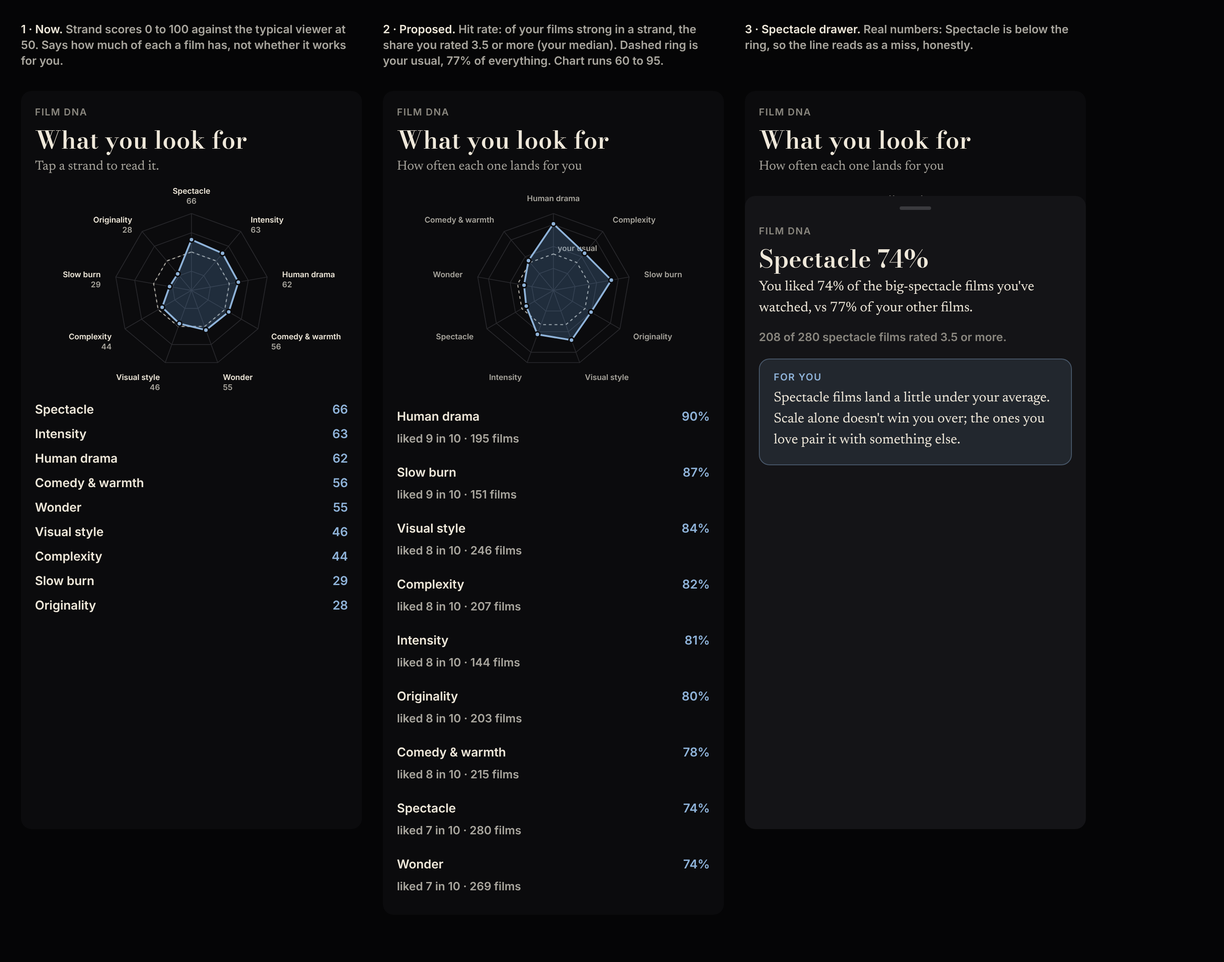
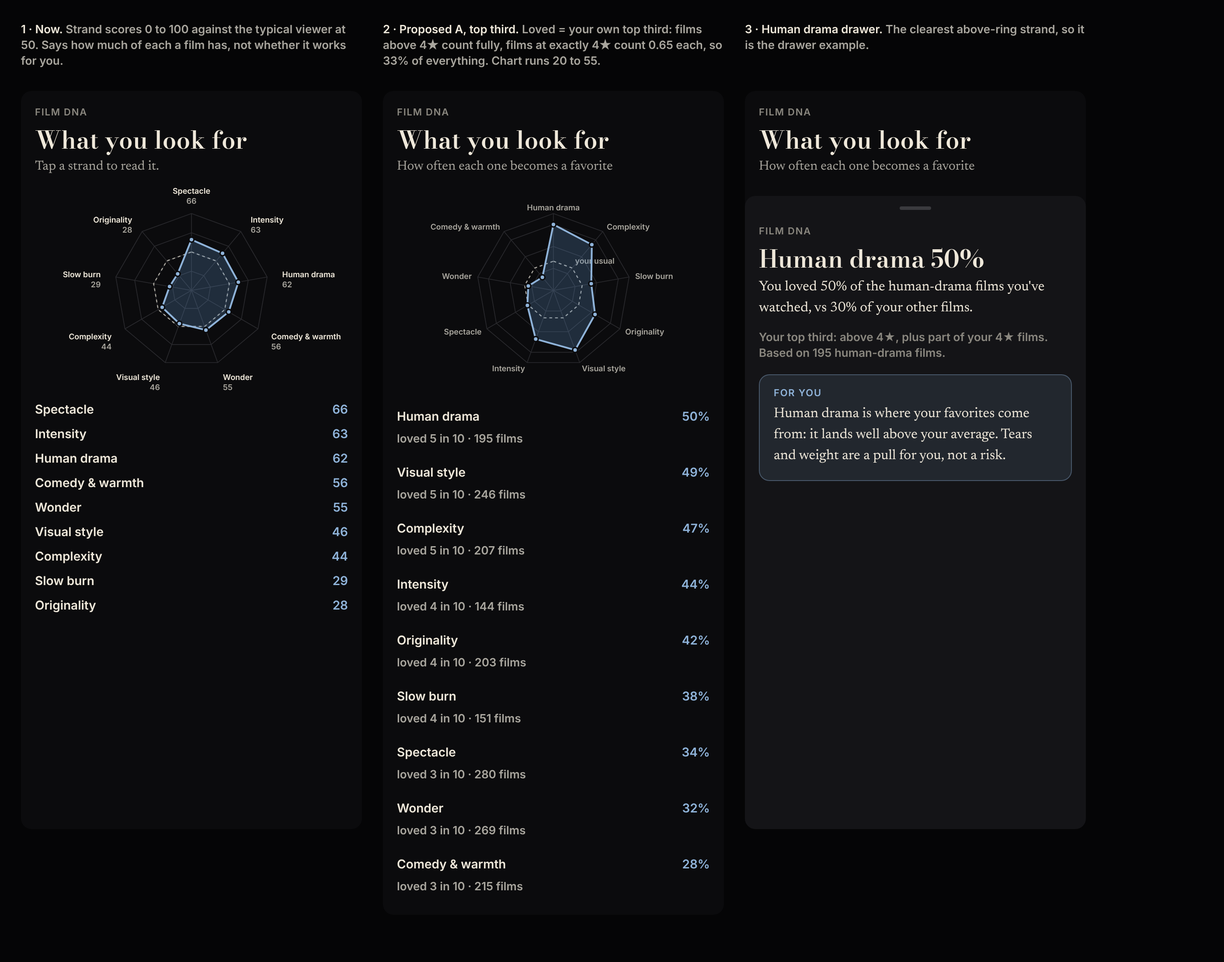
Mock b36: Film DNA hit rate, top-third and 4-star versions
Claude-Session: https://claude.ai/code/session_013WRDCFXH8nihP92apJAVW7

diff --git a/mockups/journeys/b36-dna-hitrate-third.html b/mockups/journeys/b36-dna-hitrate-third.html
@@ -1,0 +1,20 @@
+<html><head><style>
+@font-face{font-family:Bodoni;src:url(file:///home/user/montage/assets/fonts/BodoniModa-SemiBold.ttf)}@font-face{font-family:News;src:url(file:///home/user/montage/assets/fonts/Newsreader-Regular.woff)}@font-face{font-family:Inter;src:url(file:///home/user/montage/assets/fonts/Inter-SemiBold.woff);font-weight:600}
+body{margin:0;background:#050506;font-family:Inter,sans-serif;color:#efe8da;display:flex;gap:24px;padding:24px}
+.col{width:390px}.cap{font:600 13px/18px Inter;color:#a9a69e;margin:0 0 8px;height:72px}.cap b{color:#efe8da}
+.ph{width:390px;min-height:844px;background:#0b0b0d;border-radius:12px;overflow:hidden;padding:16px;box-sizing:border-box;position:relative}
+h1{font:600 28px/32px Bodoni;margin:8px 0 4px}h2{font:600 22px/28px Bodoni;margin:8px 0}
+.lab{font:600 11px/16px Inter;letter-spacing:.08em;text-transform:uppercase;color:#8a877f}
+.sub{font:400 15px/22px News;color:#a9a69e;margin:0 0 8px}
+.row{display:flex;justify-content:space-between;align-items:center;padding:4px 0;font:600 14px/20px Inter}
+.pc{color:#8fb3d9}.w{font:400 13px/18px Inter;color:#a9a69e;margin-top:2px}
+.bar{position:relative;height:6px;border-radius:999px;background:#2a2a2e}.bar .m{position:absolute;left:50%;top:-4px;height:14px;border-left:1px dashed #a9a69e}
+.bar b{position:absolute;top:-2px;width:10px;height:10px;border-radius:999px;background:#8fb3d9;border:2px solid #0b0b0d;box-sizing:border-box;transform:scale(1.2)}
+.ends{display:flex;justify-content:space-between;font:400 11px/16px Inter;color:#8a877f;margin-top:8px}
+.fy{margin-top:16px;padding:12px 16px 16px;border-radius:12px;background:rgba(143,179,217,.12);border:1px solid rgba(143,179,217,.35)}
+.fy .l{font:600 11px/16px Inter;letter-spacing:.08em;text-transform:uppercase;color:#8fb3d9}.fy p{margin:4px 0 0;font:400 16px/1.5 News}
+.dr{position:absolute;left:0;right:0;bottom:0;top:120px;background:#141417;border-radius:12px 12px 0 0;padding:24px 16px}.grab{width:36px;height:4px;border-radius:999px;background:#3a3a3e;margin:-12px auto 16px}
+.note{margin-top:12px;font:400 13px/18px Inter;color:#8a877f}
+.li{padding:8px 0}.li .t{font:600 15px/20px Inter}.li .w{font:400 13px/18px Inter;color:#a9a69e;margin-top:2px}.li .w b{color:#8fb3d9;font-weight:600}
+</style></head><body><div class="col"><p class="cap"><b>1 · Now.</b> Strand scores 0 to 100 against the typical viewer at 50. Says how much of each a film has, not whether it works for you.</p><div class="ph"><div class="lab">Film DNA</div><h1>What you look for</h1><p class="sub">Tap a strand to read it.</p><svg viewBox="-40 0 440 300" width="358"><polygon points="180.0,123.0 197.4,129.3 206.6,145.3 203.4,163.5 189.2,175.4 170.8,175.4 156.6,163.5 153.4,145.3 162.6,129.3" fill="none" stroke="#2a2a2e"/><polygon points="180.0,96.0 214.7,108.6 233.2,140.6 226.8,177.0 198.5,200.7 161.5,200.7 133.2,177.0 126.8,140.6 145.3,108.6" fill="none" stroke="#2a2a2e"/><polygon points="180.0,69.0 232.1,88.0 259.8,135.9 250.1,190.5 207.7,226.1 152.3,226.1 109.9,190.5 100.2,135.9 127.9,88.0" fill="none" stroke="#2a2a2e"/><polygon points="180.0,42.0 249.4,67.3 286.4,131.2 273.5,204.0 216.9,251.5 143.1,251.5 86.5,204.0 73.6,131.2 110.6,67.3" fill="none" stroke="#2a2a2e"/><line x1="180" y1="150" x2="180.0" y2="42.0" stroke="#2a2a2e"/><line x1="180" y1="150" x2="249.4" y2="67.3" stroke="#2a2a2e"/><line x1="180" y1="150" x2="286.4" y2="131.2" stroke="#2a2a2e"/><line x1="180" y1="150" x2="273.5" y2="204.0" stroke="#2a2a2e"/><line x1="180" y1="150" x2="216.9" y2="251.5" stroke="#2a2a2e"/><line x1="180" y1="150" x2="143.1" y2="251.5" stroke="#2a2a2e"/><line x1="180" y1="150" x2="86.5" y2="204.0" stroke="#2a2a2e"/><line x1="180" y1="150" x2="73.6" y2="131.2" stroke="#2a2a2e"/><line x1="180" y1="150" x2="110.6" y2="67.3" stroke="#2a2a2e"/><polygon points="180.0,96.0 214.7,108.6 233.2,140.6 226.8,177.0 198.5,200.7 161.5,200.7 133.2,177.0 126.8,140.6 145.3,108.6" fill="none" stroke="#a9a69e" stroke-width="1.5" stroke-dasharray="4 4"/><polygon points="180.0,78.7 223.7,97.9 245.9,138.4 232.4,180.2 200.3,205.8 163.0,196.7 138.8,173.8 149.2,144.6 160.6,126.8" fill="rgba(91,143,196,.26)" stroke="#8fb3d9" stroke-width="2.5" stroke-linejoin="round"/><circle cx="180.0" cy="78.7" r="3.5" fill="#8fb3d9" stroke="#0b0b0d" stroke-width="2"/><circle cx="223.7" cy="97.9" r="3.5" fill="#8fb3d9" stroke="#0b0b0d" stroke-width="2"/><circle cx="245.9" cy="138.4" r="3.5" fill="#8fb3d9" stroke="#0b0b0d" stroke-width="2"/><circle cx="232.4" cy="180.2" r="3.5" fill="#8fb3d9" stroke="#0b0b0d" stroke-width="2"/><circle cx="200.3" cy="205.8" r="3.5" fill="#8fb3d9" stroke="#0b0b0d" stroke-width="2"/><circle cx="163.0" cy="196.7" r="3.5" fill="#8fb3d9" stroke="#0b0b0d" stroke-width="2"/><circle cx="138.8" cy="173.8" r="3.5" fill="#8fb3d9" stroke="#0b0b0d" stroke-width="2"/><circle cx="149.2" cy="144.6" r="3.5" fill="#8fb3d9" stroke="#0b0b0d" stroke-width="2"/><circle cx="160.6" cy="126.8" r="3.5" fill="#8fb3d9" stroke="#0b0b0d" stroke-width="2"/><text x="180.0" y="14.4" text-anchor="middle" font-family="Inter" font-weight="600" font-size="11" fill="#efe8da">Spectacle</text><text x="180.0" y="28.4" text-anchor="middle" font-family="Inter" font-weight="600" font-size="11" fill="#a9a69e">66</text><text x="263.3" y="54.7" text-anchor="start" font-family="Inter" font-weight="600" font-size="11" fill="#efe8da">Intensity</text><text x="263.3" y="68.7" text-anchor="start" font-family="Inter" font-weight="600" font-size="11" fill="#a9a69e">63</text><text x="307.6" y="131.5" text-anchor="start" font-family="Inter" font-weight="600" font-size="11" fill="#efe8da">Human drama</text><text x="307.6" y="145.5" text-anchor="start" font-family="Inter" font-weight="600" font-size="11" fill="#a9a69e">62</text><text x="292.2" y="218.8" text-anchor="start" font-family="Inter" font-weight="600" font-size="11" fill="#efe8da">Comedy &amp; warmth</text><text x="292.2" y="232.8" text-anchor="start" font-family="Inter" font-weight="600" font-size="11" fill="#a9a69e">56</text><text x="224.3" y="275.8" text-anchor="start" font-family="Inter" font-weight="600" font-size="11" fill="#efe8da">Wonder</text><text x="224.3" y="289.8" text-anchor="start" font-family="Inter" font-weight="600" font-size="11" fill="#a9a69e">55</text><text x="135.7" y="275.8" text-anchor="end" font-family="Inter" font-weight="600" font-size="11" fill="#efe8da">Visual style</text><text x="135.7" y="289.8" text-anchor="end" font-family="Inter" font-weight="600" font-size="11" fill="#a9a69e">46</text><text x="67.8" y="218.8" text-anchor="end" font-family="Inter" font-weight="600" font-size="11" fill="#efe8da">Complexity</text><text x="67.8" y="232.8" text-anchor="end" font-family="Inter" font-weight="600" font-size="11" fill="#a9a69e">44</text><text x="52.4" y="131.5" text-anchor="end" font-family="Inter" font-weight="600" font-size="11" fill="#efe8da">Slow burn</text><text x="52.4" y="145.5" text-anchor="end" font-family="Inter" font-weight="600" font-size="11" fill="#a9a69e">29</text><text x="96.7" y="54.7" text-anchor="end" font-family="Inter" font-weight="600" font-size="11" fill="#efe8da">Originality</text><text x="96.7" y="68.7" text-anchor="end" font-family="Inter" font-weight="600" font-size="11" fill="#a9a69e">28</text></svg><div class="row"><span>Spectacle</span><span class="pc">66</span></div><div class="row"><span>Intensity</span><span class="pc">63</span></div><div class="row"><span>Human drama</span><span class="pc">62</span></div><div class="row"><span>Comedy & warmth</span><span class="pc">56</span></div><div class="row"><span>Wonder</span><span class="pc">55</span></div><div class="row"><span>Visual style</span><span class="pc">46</span></div><div class="row"><span>Complexity</span><span class="pc">44</span></div><div class="row"><span>Slow burn</span><span class="pc">29</span></div><div class="row"><span>Originality</span><span class="pc">28</span></div></div></div>
+<div class="col"><p class="cap"><b>2 · Proposed A, top third.</b> Loved = your own top third: films above 4★ count fully, films at exactly 4★ count 0.65 each, so 33% of everything. Chart runs 20 to 55.</p><div class="ph"><div class="lab">Film DNA</div><h1>What you look for</h1><p class="sub">How often each one becomes a favorite</p><svg viewBox="-40 0 440 300" width="358"><polygon points="180.0,119.1 199.8,126.4 210.4,144.6 206.7,165.4 190.6,179.0 169.4,179.0 153.3,165.4 149.6,144.6 160.2,126.4" fill="none" stroke="#2a2a2e"/><polygon points="180.0,88.3 219.7,102.7 240.8,139.3 233.4,180.9 201.1,208.0 158.9,208.0 126.6,180.9 119.2,139.3 140.3,102.7" fill="none" stroke="#2a2a2e"/><polygon points="180.0,57.4 239.5,79.1 271.2,133.9 260.2,196.3 211.7,237.0 148.3,237.0 99.8,196.3 88.8,133.9 120.5,79.1" fill="none" stroke="#2a2a2e"/><polygon points="180.0,42.0 249.4,67.3 286.4,131.2 273.5,204.0 216.9,251.5 143.1,251.5 86.5,204.0 73.6,131.2 110.6,67.3" fill="none" stroke="#2a2a2e"/><line x1="180" y1="150" x2="180.0" y2="42.0" stroke="#2a2a2e"/><text x="180.0" y="37.4" text-anchor="middle" font-family="Inter" font-weight="600" font-size="11" fill="#a9a69e">Human drama</text><line x1="180" y1="150" x2="249.4" y2="67.3" stroke="#2a2a2e"/><text x="255.0" y="64.6" text-anchor="start" font-family="Inter" font-weight="600" font-size="11" fill="#a9a69e">Complexity</text><line x1="180" y1="150" x2="286.4" y2="131.2" stroke="#2a2a2e"/><text x="294.9" y="133.7" text-anchor="start" font-family="Inter" font-weight="600" font-size="11" fill="#a9a69e">Slow burn</text><line x1="180" y1="150" x2="273.5" y2="204.0" stroke="#2a2a2e"/><text x="281.0" y="212.3" text-anchor="start" font-family="Inter" font-weight="600" font-size="11" fill="#a9a69e">Originality</text><line x1="180" y1="150" x2="216.9" y2="251.5" stroke="#2a2a2e"/><text x="219.9" y="263.6" text-anchor="start" font-family="Inter" font-weight="600" font-size="11" fill="#a9a69e">Visual style</text><line x1="180" y1="150" x2="143.1" y2="251.5" stroke="#2a2a2e"/><text x="140.1" y="263.6" text-anchor="end" font-family="Inter" font-weight="600" font-size="11" fill="#a9a69e">Intensity</text><line x1="180" y1="150" x2="86.5" y2="204.0" stroke="#2a2a2e"/><text x="79.0" y="212.3" text-anchor="end" font-family="Inter" font-weight="600" font-size="11" fill="#a9a69e">Spectacle</text><line x1="180" y1="150" x2="73.6" y2="131.2" stroke="#2a2a2e"/><text x="65.1" y="133.7" text-anchor="end" font-family="Inter" font-weight="600" font-size="11" fill="#a9a69e">Wonder</text><line x1="180" y1="150" x2="110.6" y2="67.3" stroke="#2a2a2e"/><text x="105.0" y="64.6" text-anchor="end" font-family="Inter" font-weight="600" font-size="11" fill="#a9a69e">Comedy & warmth</text><polygon points="180.0,109.0 206.4,118.6 220.4,142.9 215.5,170.5 194.0,188.6 166.0,188.6 144.5,170.5 139.6,142.9 153.6,118.6" fill="none" stroke="#a9a69e" stroke-width="1.5" stroke-dasharray="4 4"/><text x="210.4" y="112.6" font-family="Inter" font-size="11" fill="#a9a69e">your usual</text><polygon points="180.0,57.4 234.0,85.7 233.2,140.6 238.5,183.8 210.5,233.8 155.1,218.4 143.4,171.1 144.7,143.8 164.5,131.6" fill="rgba(91,143,196,.26)" stroke="#8fb3d9" stroke-width="2.5" stroke-linejoin="round"/><circle cx="180.0" cy="57.4" r="3.5" fill="#8fb3d9" stroke="#0b0b0d" stroke-width="2"/><circle cx="234.0" cy="85.7" r="3.5" fill="#8fb3d9" stroke="#0b0b0d" stroke-width="2"/><circle cx="233.2" cy="140.6" r="3.5" fill="#8fb3d9" stroke="#0b0b0d" stroke-width="2"/><circle cx="238.5" cy="183.8" r="3.5" fill="#8fb3d9" stroke="#0b0b0d" stroke-width="2"/><circle cx="210.5" cy="233.8" r="3.5" fill="#8fb3d9" stroke="#0b0b0d" stroke-width="2"/><circle cx="155.1" cy="218.4" r="3.5" fill="#8fb3d9" stroke="#0b0b0d" stroke-width="2"/><circle cx="143.4" cy="171.1" r="3.5" fill="#8fb3d9" stroke="#0b0b0d" stroke-width="2"/><circle cx="144.7" cy="143.8" r="3.5" fill="#8fb3d9" stroke="#0b0b0d" stroke-width="2"/><circle cx="164.5" cy="131.6" r="3.5" fill="#8fb3d9" stroke="#0b0b0d" stroke-width="2"/></svg><div class="li"><div class="row"><span>Human drama</span><span class="pc">50%</span></div><div class="w">loved 5 in 10 · 195 films</div></div><div class="li"><div class="row"><span>Visual style</span><span class="pc">49%</span></div><div class="w">loved 5 in 10 · 246 films</div></div><div class="li"><div class="row"><span>Complexity</span><span class="pc">47%</span></div><div class="w">loved 5 in 10 · 207 films</div></div><div class="li"><div class="row"><span>Intensity</span><span class="pc">44%</span></div><div class="w">loved 4 in 10 · 144 films</div></div><div class="li"><div class="row"><span>Originality</span><span class="pc">42%</span></div><div class="w">loved 4 in 10 · 203 films</div></div><div class="li"><div class="row"><span>Slow burn</span><span class="pc">38%</span></div><div class="w">loved 4 in 10 · 151 films</div></div><div class="li"><div class="row"><span>Spectacle</span><span class="pc">34%</span></div><div class="w">loved 3 in 10 · 280 films</div></div><div class="li"><div class="row"><span>Wonder</span><span class="pc">32%</span></div><div class="w">loved 3 in 10 · 269 films</div></div><div class="li"><div class="row"><span>Comedy & warmth</span><span class="pc">28%</span></div><div class="w">loved 3 in 10 · 215 films</div></div></div></div><div class="col"><p class="cap"><b>3 · Human drama drawer.</b> The clearest above-ring strand, so it is the drawer example.</p><div class="ph"><div class="lab">Film DNA</div><h1>What you look for</h1><p class="sub">How often each one becomes a favorite</p><svg viewBox="-40 0 440 300" width="358"><polygon points="180.0,119.1 199.8,126.4 210.4,144.6 206.7,165.4 190.6,179.0 169.4,179.0 153.3,165.4 149.6,144.6 160.2,126.4" fill="none" stroke="#2a2a2e"/><polygon points="180.0,88.3 219.7,102.7 240.8,139.3 233.4,180.9 201.1,208.0 158.9,208.0 126.6,180.9 119.2,139.3 140.3,102.7" fill="none" stroke="#2a2a2e"/><polygon points="180.0,57.4 239.5,79.1 271.2,133.9 260.2,196.3 211.7,237.0 148.3,237.0 99.8,196.3 88.8,133.9 120.5,79.1" fill="none" stroke="#2a2a2e"/><polygon points="180.0,42.0 249.4,67.3 286.4,131.2 273.5,204.0 216.9,251.5 143.1,251.5 86.5,204.0 73.6,131.2 110.6,67.3" fill="none" stroke="#2a2a2e"/><line x1="180" y1="150" x2="180.0" y2="42.0" stroke="#2a2a2e"/><text x="180.0" y="37.4" text-anchor="middle" font-family="Inter" font-weight="600" font-size="11" fill="#a9a69e">Human drama</text><line x1="180" y1="150" x2="249.4" y2="67.3" stroke="#2a2a2e"/><text x="255.0" y="64.6" text-anchor="start" font-family="Inter" font-weight="600" font-size="11" fill="#a9a69e">Complexity</text><line x1="180" y1="150" x2="286.4" y2="131.2" stroke="#2a2a2e"/><text x="294.9" y="133.7" text-anchor="start" font-family="Inter" font-weight="600" font-size="11" fill="#a9a69e">Slow burn</text><line x1="180" y1="150" x2="273.5" y2="204.0" stroke="#2a2a2e"/><text x="281.0" y="212.3" text-anchor="start" font-family="Inter" font-weight="600" font-size="11" fill="#a9a69e">Originality</text><line x1="180" y1="150" x2="216.9" y2="251.5" stroke="#2a2a2e"/><text x="219.9" y="263.6" text-anchor="start" font-family="Inter" font-weight="600" font-size="11" fill="#a9a69e">Visual style</text><line x1="180" y1="150" x2="143.1" y2="251.5" stroke="#2a2a2e"/><text x="140.1" y="263.6" text-anchor="end" font-family="Inter" font-weight="600" font-size="11" fill="#a9a69e">Intensity</text><line x1="180" y1="150" x2="86.5" y2="204.0" stroke="#2a2a2e"/><text x="79.0" y="212.3" text-anchor="end" font-family="Inter" font-weight="600" font-size="11" fill="#a9a69e">Spectacle</text><line x1="180" y1="150" x2="73.6" y2="131.2" stroke="#2a2a2e"/><text x="65.1" y="133.7" text-anchor="end" font-family="Inter" font-weight="600" font-size="11" fill="#a9a69e">Wonder</text><line x1="180" y1="150" x2="110.6" y2="67.3" stroke="#2a2a2e"/><text x="105.0" y="64.6" text-anchor="end" font-family="Inter" font-weight="600" font-size="11" fill="#a9a69e">Comedy & warmth</text><polygon points="180.0,109.0 206.4,118.6 220.4,142.9 215.5,170.5 194.0,188.6 166.0,188.6 144.5,170.5 139.6,142.9 153.6,118.6" fill="none" stroke="#a9a69e" stroke-width="1.5" stroke-dasharray="4 4"/><text x="210.4" y="112.6" font-family="Inter" font-size="11" fill="#a9a69e">your usual</text><polygon points="180.0,57.4 234.0,85.7 233.2,140.6 238.5,183.8 210.5,233.8 155.1,218.4 143.4,171.1 144.7,143.8 164.5,131.6" fill="rgba(91,143,196,.26)" stroke="#8fb3d9" stroke-width="2.5" stroke-linejoin="round"/><circle cx="180.0" cy="57.4" r="3.5" fill="#8fb3d9" stroke="#0b0b0d" stroke-width="2"/><circle cx="234.0" cy="85.7" r="3.5" fill="#8fb3d9" stroke="#0b0b0d" stroke-width="2"/><circle cx="233.2" cy="140.6" r="3.5" fill="#8fb3d9" stroke="#0b0b0d" stroke-width="2"/><circle cx="238.5" cy="183.8" r="3.5" fill="#8fb3d9" stroke="#0b0b0d" stroke-width="2"/><circle cx="210.5" cy="233.8" r="3.5" fill="#8fb3d9" stroke="#0b0b0d" stroke-width="2"/><circle cx="155.1" cy="218.4" r="3.5" fill="#8fb3d9" stroke="#0b0b0d" stroke-width="2"/><circle cx="143.4" cy="171.1" r="3.5" fill="#8fb3d9" stroke="#0b0b0d" stroke-width="2"/><circle cx="144.7" cy="143.8" r="3.5" fill="#8fb3d9" stroke="#0b0b0d" stroke-width="2"/><circle cx="164.5" cy="131.6" r="3.5" fill="#8fb3d9" stroke="#0b0b0d" stroke-width="2"/></svg><div class="dr"><div class="grab"></div><div class="lab">Film DNA</div><h1>Human drama 50%</h1><p class="sub" style="font-size:16px;line-height:24px;color:#efe8da">You loved 50% of the human-drama films you've watched, vs 30% of your other films.</p><div class="note">Your top third: above 4★, plus part of your 4★ films. Based on 195 human-drama films.</div><div class="fy"><div class="l">For you</div><p>Human drama is where your favorites come from: it lands well above your average. Tears and weight are a pull for you, not a risk.</p></div></div></div></div></body></html>

diff --git a/mockups/journeys/b36-dna-hitrate-4star.html b/mockups/journeys/b36-dna-hitrate-4star.html
@@ -1,0 +1,20 @@
+<html><head><style>
+@font-face{font-family:Bodoni;src:url(file:///home/user/montage/assets/fonts/BodoniModa-SemiBold.ttf)}@font-face{font-family:News;src:url(file:///home/user/montage/assets/fonts/Newsreader-Regular.woff)}@font-face{font-family:Inter;src:url(file:///home/user/montage/assets/fonts/Inter-SemiBold.woff);font-weight:600}
+body{margin:0;background:#050506;font-family:Inter,sans-serif;color:#efe8da;display:flex;gap:24px;padding:24px}
+.col{width:390px}.cap{font:600 13px/18px Inter;color:#a9a69e;margin:0 0 8px;height:72px}.cap b{color:#efe8da}
+.ph{width:390px;min-height:844px;background:#0b0b0d;border-radius:12px;overflow:hidden;padding:16px;box-sizing:border-box;position:relative}
+h1{font:600 28px/32px Bodoni;margin:8px 0 4px}h2{font:600 22px/28px Bodoni;margin:8px 0}
+.lab{font:600 11px/16px Inter;letter-spacing:.08em;text-transform:uppercase;color:#8a877f}
+.sub{font:400 15px/22px News;color:#a9a69e;margin:0 0 8px}
+.row{display:flex;justify-content:space-between;align-items:center;padding:4px 0;font:600 14px/20px Inter}
+.pc{color:#8fb3d9}.w{font:400 13px/18px Inter;color:#a9a69e;margin-top:2px}
+.bar{position:relative;height:6px;border-radius:999px;background:#2a2a2e}.bar .m{position:absolute;left:50%;top:-4px;height:14px;border-left:1px dashed #a9a69e}
+.bar b{position:absolute;top:-2px;width:10px;height:10px;border-radius:999px;background:#8fb3d9;border:2px solid #0b0b0d;box-sizing:border-box;transform:scale(1.2)}
+.ends{display:flex;justify-content:space-between;font:400 11px/16px Inter;color:#8a877f;margin-top:8px}
+.fy{margin-top:16px;padding:12px 16px 16px;border-radius:12px;background:rgba(143,179,217,.12);border:1px solid rgba(143,179,217,.35)}
+.fy .l{font:600 11px/16px Inter;letter-spacing:.08em;text-transform:uppercase;color:#8fb3d9}.fy p{margin:4px 0 0;font:400 16px/1.5 News}
+.dr{position:absolute;left:0;right:0;bottom:0;top:120px;background:#141417;border-radius:12px 12px 0 0;padding:24px 16px}.grab{width:36px;height:4px;border-radius:999px;background:#3a3a3e;margin:-12px auto 16px}
+.note{margin-top:12px;font:400 13px/18px Inter;color:#8a877f}
+.li{padding:8px 0}.li .t{font:600 15px/20px Inter}.li .w{font:400 13px/18px Inter;color:#a9a69e;margin-top:2px}.li .w b{color:#8fb3d9;font-weight:600}
+</style></head><body><div class="col"><p class="cap"><b>1 · Now.</b> Strand scores 0 to 100 against the typical viewer at 50. Says how much of each a film has, not whether it works for you.</p><div class="ph"><div class="lab">Film DNA</div><h1>What you look for</h1><p class="sub">Tap a strand to read it.</p><svg viewBox="-40 0 440 300" width="358"><polygon points="180.0,123.0 197.4,129.3 206.6,145.3 203.4,163.5 189.2,175.4 170.8,175.4 156.6,163.5 153.4,145.3 162.6,129.3" fill="none" stroke="#2a2a2e"/><polygon points="180.0,96.0 214.7,108.6 233.2,140.6 226.8,177.0 198.5,200.7 161.5,200.7 133.2,177.0 126.8,140.6 145.3,108.6" fill="none" stroke="#2a2a2e"/><polygon points="180.0,69.0 232.1,88.0 259.8,135.9 250.1,190.5 207.7,226.1 152.3,226.1 109.9,190.5 100.2,135.9 127.9,88.0" fill="none" stroke="#2a2a2e"/><polygon points="180.0,42.0 249.4,67.3 286.4,131.2 273.5,204.0 216.9,251.5 143.1,251.5 86.5,204.0 73.6,131.2 110.6,67.3" fill="none" stroke="#2a2a2e"/><line x1="180" y1="150" x2="180.0" y2="42.0" stroke="#2a2a2e"/><line x1="180" y1="150" x2="249.4" y2="67.3" stroke="#2a2a2e"/><line x1="180" y1="150" x2="286.4" y2="131.2" stroke="#2a2a2e"/><line x1="180" y1="150" x2="273.5" y2="204.0" stroke="#2a2a2e"/><line x1="180" y1="150" x2="216.9" y2="251.5" stroke="#2a2a2e"/><line x1="180" y1="150" x2="143.1" y2="251.5" stroke="#2a2a2e"/><line x1="180" y1="150" x2="86.5" y2="204.0" stroke="#2a2a2e"/><line x1="180" y1="150" x2="73.6" y2="131.2" stroke="#2a2a2e"/><line x1="180" y1="150" x2="110.6" y2="67.3" stroke="#2a2a2e"/><polygon points="180.0,96.0 214.7,108.6 233.2,140.6 226.8,177.0 198.5,200.7 161.5,200.7 133.2,177.0 126.8,140.6 145.3,108.6" fill="none" stroke="#a9a69e" stroke-width="1.5" stroke-dasharray="4 4"/><polygon points="180.0,78.7 223.7,97.9 245.9,138.4 232.4,180.2 200.3,205.8 163.0,196.7 138.8,173.8 149.2,144.6 160.6,126.8" fill="rgba(91,143,196,.26)" stroke="#8fb3d9" stroke-width="2.5" stroke-linejoin="round"/><circle cx="180.0" cy="78.7" r="3.5" fill="#8fb3d9" stroke="#0b0b0d" stroke-width="2"/><circle cx="223.7" cy="97.9" r="3.5" fill="#8fb3d9" stroke="#0b0b0d" stroke-width="2"/><circle cx="245.9" cy="138.4" r="3.5" fill="#8fb3d9" stroke="#0b0b0d" stroke-width="2"/><circle cx="232.4" cy="180.2" r="3.5" fill="#8fb3d9" stroke="#0b0b0d" stroke-width="2"/><circle cx="200.3" cy="205.8" r="3.5" fill="#8fb3d9" stroke="#0b0b0d" stroke-width="2"/><circle cx="163.0" cy="196.7" r="3.5" fill="#8fb3d9" stroke="#0b0b0d" stroke-width="2"/><circle cx="138.8" cy="173.8" r="3.5" fill="#8fb3d9" stroke="#0b0b0d" stroke-width="2"/><circle cx="149.2" cy="144.6" r="3.5" fill="#8fb3d9" stroke="#0b0b0d" stroke-width="2"/><circle cx="160.6" cy="126.8" r="3.5" fill="#8fb3d9" stroke="#0b0b0d" stroke-width="2"/><text x="180.0" y="14.4" text-anchor="middle" font-family="Inter" font-weight="600" font-size="11" fill="#efe8da">Spectacle</text><text x="180.0" y="28.4" text-anchor="middle" font-family="Inter" font-weight="600" font-size="11" fill="#a9a69e">66</text><text x="263.3" y="54.7" text-anchor="start" font-family="Inter" font-weight="600" font-size="11" fill="#efe8da">Intensity</text><text x="263.3" y="68.7" text-anchor="start" font-family="Inter" font-weight="600" font-size="11" fill="#a9a69e">63</text><text x="307.6" y="131.5" text-anchor="start" font-family="Inter" font-weight="600" font-size="11" fill="#efe8da">Human drama</text><text x="307.6" y="145.5" text-anchor="start" font-family="Inter" font-weight="600" font-size="11" fill="#a9a69e">62</text><text x="292.2" y="218.8" text-anchor="start" font-family="Inter" font-weight="600" font-size="11" fill="#efe8da">Comedy &amp; warmth</text><text x="292.2" y="232.8" text-anchor="start" font-family="Inter" font-weight="600" font-size="11" fill="#a9a69e">56</text><text x="224.3" y="275.8" text-anchor="start" font-family="Inter" font-weight="600" font-size="11" fill="#efe8da">Wonder</text><text x="224.3" y="289.8" text-anchor="start" font-family="Inter" font-weight="600" font-size="11" fill="#a9a69e">55</text><text x="135.7" y="275.8" text-anchor="end" font-family="Inter" font-weight="600" font-size="11" fill="#efe8da">Visual style</text><text x="135.7" y="289.8" text-anchor="end" font-family="Inter" font-weight="600" font-size="11" fill="#a9a69e">46</text><text x="67.8" y="218.8" text-anchor="end" font-family="Inter" font-weight="600" font-size="11" fill="#efe8da">Complexity</text><text x="67.8" y="232.8" text-anchor="end" font-family="Inter" font-weight="600" font-size="11" fill="#a9a69e">44</text><text x="52.4" y="131.5" text-anchor="end" font-family="Inter" font-weight="600" font-size="11" fill="#efe8da">Slow burn</text><text x="52.4" y="145.5" text-anchor="end" font-family="Inter" font-weight="600" font-size="11" fill="#a9a69e">29</text><text x="96.7" y="54.7" text-anchor="end" font-family="Inter" font-weight="600" font-size="11" fill="#efe8da">Originality</text><text x="96.7" y="68.7" text-anchor="end" font-family="Inter" font-weight="600" font-size="11" fill="#a9a69e">28</text></svg><div class="row"><span>Spectacle</span><span class="pc">66</span></div><div class="row"><span>Intensity</span><span class="pc">63</span></div><div class="row"><span>Human drama</span><span class="pc">62</span></div><div class="row"><span>Comedy & warmth</span><span class="pc">56</span></div><div class="row"><span>Wonder</span><span class="pc">55</span></div><div class="row"><span>Visual style</span><span class="pc">46</span></div><div class="row"><span>Complexity</span><span class="pc">44</span></div><div class="row"><span>Slow burn</span><span class="pc">29</span></div><div class="row"><span>Originality</span><span class="pc">28</span></div></div></div>
+<div class="col"><p class="cap"><b>2 · Proposed B, 4★ or more.</b> Loved = rated 4★ or higher. That is 44% of everything you rate (the dashed ring). Chart runs 30 to 70.</p><div class="ph"><div class="lab">Film DNA</div><h1>What you look for</h1><p class="sub">How often each one becomes a favorite</p><svg viewBox="-40 0 440 300" width="358"><polygon points="180.0,123.0 197.4,129.3 206.6,145.3 203.4,163.5 189.2,175.4 170.8,175.4 156.6,163.5 153.4,145.3 162.6,129.3" fill="none" stroke="#2a2a2e"/><polygon points="180.0,96.0 214.7,108.6 233.2,140.6 226.8,177.0 198.5,200.7 161.5,200.7 133.2,177.0 126.8,140.6 145.3,108.6" fill="none" stroke="#2a2a2e"/><polygon points="180.0,69.0 232.1,88.0 259.8,135.9 250.1,190.5 207.7,226.1 152.3,226.1 109.9,190.5 100.2,135.9 127.9,88.0" fill="none" stroke="#2a2a2e"/><polygon points="180.0,42.0 249.4,67.3 286.4,131.2 273.5,204.0 216.9,251.5 143.1,251.5 86.5,204.0 73.6,131.2 110.6,67.3" fill="none" stroke="#2a2a2e"/><line x1="180" y1="150" x2="180.0" y2="42.0" stroke="#2a2a2e"/><text x="180.0" y="37.4" text-anchor="middle" font-family="Inter" font-weight="600" font-size="11" fill="#a9a69e">Human drama</text><line x1="180" y1="150" x2="249.4" y2="67.3" stroke="#2a2a2e"/><text x="255.0" y="64.6" text-anchor="start" font-family="Inter" font-weight="600" font-size="11" fill="#a9a69e">Complexity</text><line x1="180" y1="150" x2="286.4" y2="131.2" stroke="#2a2a2e"/><text x="294.9" y="133.7" text-anchor="start" font-family="Inter" font-weight="600" font-size="11" fill="#a9a69e">Slow burn</text><line x1="180" y1="150" x2="273.5" y2="204.0" stroke="#2a2a2e"/><text x="281.0" y="212.3" text-anchor="start" font-family="Inter" font-weight="600" font-size="11" fill="#a9a69e">Originality</text><line x1="180" y1="150" x2="216.9" y2="251.5" stroke="#2a2a2e"/><text x="219.9" y="263.6" text-anchor="start" font-family="Inter" font-weight="600" font-size="11" fill="#a9a69e">Visual style</text><line x1="180" y1="150" x2="143.1" y2="251.5" stroke="#2a2a2e"/><text x="140.1" y="263.6" text-anchor="end" font-family="Inter" font-weight="600" font-size="11" fill="#a9a69e">Intensity</text><line x1="180" y1="150" x2="86.5" y2="204.0" stroke="#2a2a2e"/><text x="79.0" y="212.3" text-anchor="end" font-family="Inter" font-weight="600" font-size="11" fill="#a9a69e">Spectacle</text><line x1="180" y1="150" x2="73.6" y2="131.2" stroke="#2a2a2e"/><text x="65.1" y="133.7" text-anchor="end" font-family="Inter" font-weight="600" font-size="11" fill="#a9a69e">Wonder</text><line x1="180" y1="150" x2="110.6" y2="67.3" stroke="#2a2a2e"/><text x="105.0" y="64.6" text-anchor="end" font-family="Inter" font-weight="600" font-size="11" fill="#a9a69e">Comedy & warmth</text><polygon points="180.0,112.5 204.1,121.3 217.0,143.5 212.5,168.8 192.8,185.3 167.2,185.3 147.5,168.8 143.0,143.5 155.9,121.3" fill="none" stroke="#a9a69e" stroke-width="1.5" stroke-dasharray="4 4"/><text x="208.1" y="115.3" font-family="Inter" font-size="11" fill="#a9a69e">your usual</text><polygon points="180.0,62.0 232.8,87.1 234.0,140.5 235.4,182.0 208.6,228.7 157.0,213.2 149.1,167.8 153.1,145.3 166.6,134.1" fill="rgba(91,143,196,.26)" stroke="#8fb3d9" stroke-width="2.5" stroke-linejoin="round"/><circle cx="180.0" cy="62.0" r="3.5" fill="#8fb3d9" stroke="#0b0b0d" stroke-width="2"/><circle cx="232.8" cy="87.1" r="3.5" fill="#8fb3d9" stroke="#0b0b0d" stroke-width="2"/><circle cx="234.0" cy="140.5" r="3.5" fill="#8fb3d9" stroke="#0b0b0d" stroke-width="2"/><circle cx="235.4" cy="182.0" r="3.5" fill="#8fb3d9" stroke="#0b0b0d" stroke-width="2"/><circle cx="208.6" cy="228.7" r="3.5" fill="#8fb3d9" stroke="#0b0b0d" stroke-width="2"/><circle cx="157.0" cy="213.2" r="3.5" fill="#8fb3d9" stroke="#0b0b0d" stroke-width="2"/><circle cx="149.1" cy="167.8" r="3.5" fill="#8fb3d9" stroke="#0b0b0d" stroke-width="2"/><circle cx="153.1" cy="145.3" r="3.5" fill="#8fb3d9" stroke="#0b0b0d" stroke-width="2"/><circle cx="166.6" cy="134.1" r="3.5" fill="#8fb3d9" stroke="#0b0b0d" stroke-width="2"/></svg><div class="li"><div class="row"><span>Human drama</span><span class="pc">63%</span></div><div class="w">loved 6 in 10 · 195 films</div></div><div class="li"><div class="row"><span>Visual style</span><span class="pc">61%</span></div><div class="w">loved 6 in 10 · 246 films</div></div><div class="li"><div class="row"><span>Complexity</span><span class="pc">60%</span></div><div class="w">loved 6 in 10 · 207 films</div></div><div class="li"><div class="row"><span>Intensity</span><span class="pc">55%</span></div><div class="w">loved 5 in 10 · 144 films</div></div><div class="li"><div class="row"><span>Originality</span><span class="pc">54%</span></div><div class="w">loved 5 in 10 · 203 films</div></div><div class="li"><div class="row"><span>Slow burn</span><span class="pc">50%</span></div><div class="w">loved 5 in 10 · 151 films</div></div><div class="li"><div class="row"><span>Spectacle</span><span class="pc">43%</span></div><div class="w">loved 4 in 10 · 280 films</div></div><div class="li"><div class="row"><span>Wonder</span><span class="pc">40%</span></div><div class="w">loved 4 in 10 · 269 films</div></div><div class="li"><div class="row"><span>Comedy & warmth</span><span class="pc">38%</span></div><div class="w">loved 4 in 10 · 215 films</div></div></div></div><div class="col"><p class="cap"><b>3 · Human drama drawer.</b> The clearest above-ring strand, so it is the drawer example.</p><div class="ph"><div class="lab">Film DNA</div><h1>What you look for</h1><p class="sub">How often each one becomes a favorite</p><svg viewBox="-40 0 440 300" width="358"><polygon points="180.0,123.0 197.4,129.3 206.6,145.3 203.4,163.5 189.2,175.4 170.8,175.4 156.6,163.5 153.4,145.3 162.6,129.3" fill="none" stroke="#2a2a2e"/><polygon points="180.0,96.0 214.7,108.6 233.2,140.6 226.8,177.0 198.5,200.7 161.5,200.7 133.2,177.0 126.8,140.6 145.3,108.6" fill="none" stroke="#2a2a2e"/><polygon points="180.0,69.0 232.1,88.0 259.8,135.9 250.1,190.5 207.7,226.1 152.3,226.1 109.9,190.5 100.2,135.9 127.9,88.0" fill="none" stroke="#2a2a2e"/><polygon points="180.0,42.0 249.4,67.3 286.4,131.2 273.5,204.0 216.9,251.5 143.1,251.5 86.5,204.0 73.6,131.2 110.6,67.3" fill="none" stroke="#2a2a2e"/><line x1="180" y1="150" x2="180.0" y2="42.0" stroke="#2a2a2e"/><text x="180.0" y="37.4" text-anchor="middle" font-family="Inter" font-weight="600" font-size="11" fill="#a9a69e">Human drama</text><line x1="180" y1="150" x2="249.4" y2="67.3" stroke="#2a2a2e"/><text x="255.0" y="64.6" text-anchor="start" font-family="Inter" font-weight="600" font-size="11" fill="#a9a69e">Complexity</text><line x1="180" y1="150" x2="286.4" y2="131.2" stroke="#2a2a2e"/><text x="294.9" y="133.7" text-anchor="start" font-family="Inter" font-weight="600" font-size="11" fill="#a9a69e">Slow burn</text><line x1="180" y1="150" x2="273.5" y2="204.0" stroke="#2a2a2e"/><text x="281.0" y="212.3" text-anchor="start" font-family="Inter" font-weight="600" font-size="11" fill="#a9a69e">Originality</text><line x1="180" y1="150" x2="216.9" y2="251.5" stroke="#2a2a2e"/><text x="219.9" y="263.6" text-anchor="start" font-family="Inter" font-weight="600" font-size="11" fill="#a9a69e">Visual style</text><line x1="180" y1="150" x2="143.1" y2="251.5" stroke="#2a2a2e"/><text x="140.1" y="263.6" text-anchor="end" font-family="Inter" font-weight="600" font-size="11" fill="#a9a69e">Intensity</text><line x1="180" y1="150" x2="86.5" y2="204.0" stroke="#2a2a2e"/><text x="79.0" y="212.3" text-anchor="end" font-family="Inter" font-weight="600" font-size="11" fill="#a9a69e">Spectacle</text><line x1="180" y1="150" x2="73.6" y2="131.2" stroke="#2a2a2e"/><text x="65.1" y="133.7" text-anchor="end" font-family="Inter" font-weight="600" font-size="11" fill="#a9a69e">Wonder</text><line x1="180" y1="150" x2="110.6" y2="67.3" stroke="#2a2a2e"/><text x="105.0" y="64.6" text-anchor="end" font-family="Inter" font-weight="600" font-size="11" fill="#a9a69e">Comedy & warmth</text><polygon points="180.0,112.5 204.1,121.3 217.0,143.5 212.5,168.8 192.8,185.3 167.2,185.3 147.5,168.8 143.0,143.5 155.9,121.3" fill="none" stroke="#a9a69e" stroke-width="1.5" stroke-dasharray="4 4"/><text x="208.1" y="115.3" font-family="Inter" font-size="11" fill="#a9a69e">your usual</text><polygon points="180.0,62.0 232.8,87.1 234.0,140.5 235.4,182.0 208.6,228.7 157.0,213.2 149.1,167.8 153.1,145.3 166.6,134.1" fill="rgba(91,143,196,.26)" stroke="#8fb3d9" stroke-width="2.5" stroke-linejoin="round"/><circle cx="180.0" cy="62.0" r="3.5" fill="#8fb3d9" stroke="#0b0b0d" stroke-width="2"/><circle cx="232.8" cy="87.1" r="3.5" fill="#8fb3d9" stroke="#0b0b0d" stroke-width="2"/><circle cx="234.0" cy="140.5" r="3.5" fill="#8fb3d9" stroke="#0b0b0d" stroke-width="2"/><circle cx="235.4" cy="182.0" r="3.5" fill="#8fb3d9" stroke="#0b0b0d" stroke-width="2"/><circle cx="208.6" cy="228.7" r="3.5" fill="#8fb3d9" stroke="#0b0b0d" stroke-width="2"/><circle cx="157.0" cy="213.2" r="3.5" fill="#8fb3d9" stroke="#0b0b0d" stroke-width="2"/><circle cx="149.1" cy="167.8" r="3.5" fill="#8fb3d9" stroke="#0b0b0d" stroke-width="2"/><circle cx="153.1" cy="145.3" r="3.5" fill="#8fb3d9" stroke="#0b0b0d" stroke-width="2"/><circle cx="166.6" cy="134.1" r="3.5" fill="#8fb3d9" stroke="#0b0b0d" stroke-width="2"/></svg><div class="dr"><div class="grab"></div><div class="lab">Film DNA</div><h1>Human drama 63%</h1><p class="sub" style="font-size:16px;line-height:24px;color:#efe8da">You loved 63% of the human-drama films you've watched, vs 40% of your other films.</p><div class="note">Loved means rated 4★ or more. Based on 195 human-drama films.</div><div class="fy"><div class="l">For you</div><p>Human drama is where your favorites come from: it lands well above your average. Tears and weight are a pull for you, not a risk.</p></div></div></div></div></body></html>

diff --git a/mockups/journeys/b36-dna-hitrate-4star-render.js b/mockups/journeys/b36-dna-hitrate-4star-render.js
@@ -1,0 +1,13 @@
+const { chromium } = require('playwright');
+const path = require('path');
+(async () => {
+  const proxy = process.env.HTTPS_PROXY ? { server: process.env.HTTPS_PROXY } : undefined;
+  const browser = await chromium.launch(proxy ? { proxy } : {});
+  const page = await browser.newPage({ viewport: { width: 1400, height: 1100 }, deviceScaleFactor: 2 });
+  await page.goto('file://' + path.join(__dirname, 'b36-dna-hitrate-4star.html'), { waitUntil: 'networkidle' });
+
+  await page.evaluate(() => document.fonts.ready);
+  console.log('broken', await page.evaluate(() => [...document.images].filter((i) => !i.naturalWidth).map((i) => i.src)));
+  await page.screenshot({ path: path.join(__dirname,'b36-dna-hitrate-4star.png'), fullPage:true });
+  await browser.close();
+})().catch((e) => { console.error(e); process.exit(1); });

diff --git a/mockups/journeys/b36-dna-hitrate-third-render.js b/mockups/journeys/b36-dna-hitrate-third-render.js
@@ -1,0 +1,13 @@
+const { chromium } = require('playwright');
+const path = require('path');
+(async () => {
+  const proxy = process.env.HTTPS_PROXY ? { server: process.env.HTTPS_PROXY } : undefined;
+  const browser = await chromium.launch(proxy ? { proxy } : {});
+  const page = await browser.newPage({ viewport: { width: 1400, height: 1100 }, deviceScaleFactor: 2 });
+  await page.goto('file://' + path.join(__dirname, 'b36-dna-hitrate-third.html'), { waitUntil: 'networkidle' });
+
+  await page.evaluate(() => document.fonts.ready);
+  console.log('broken', await page.evaluate(() => [...document.images].filter((i) => !i.naturalWidth).map((i) => i.src)));
+  await page.screenshot({ path: path.join(__dirname,'b36-dna-hitrate-third.png'), fullPage:true });
+  await browser.close();
+})().catch((e) => { console.error(e); process.exit(1); });
